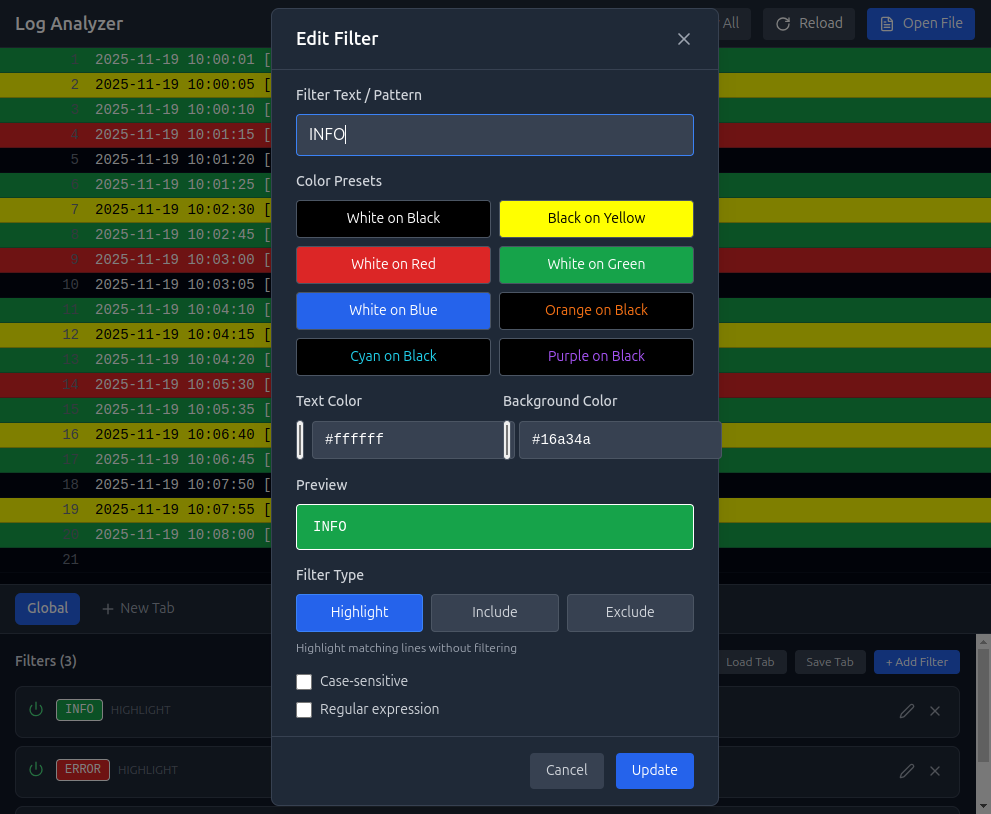
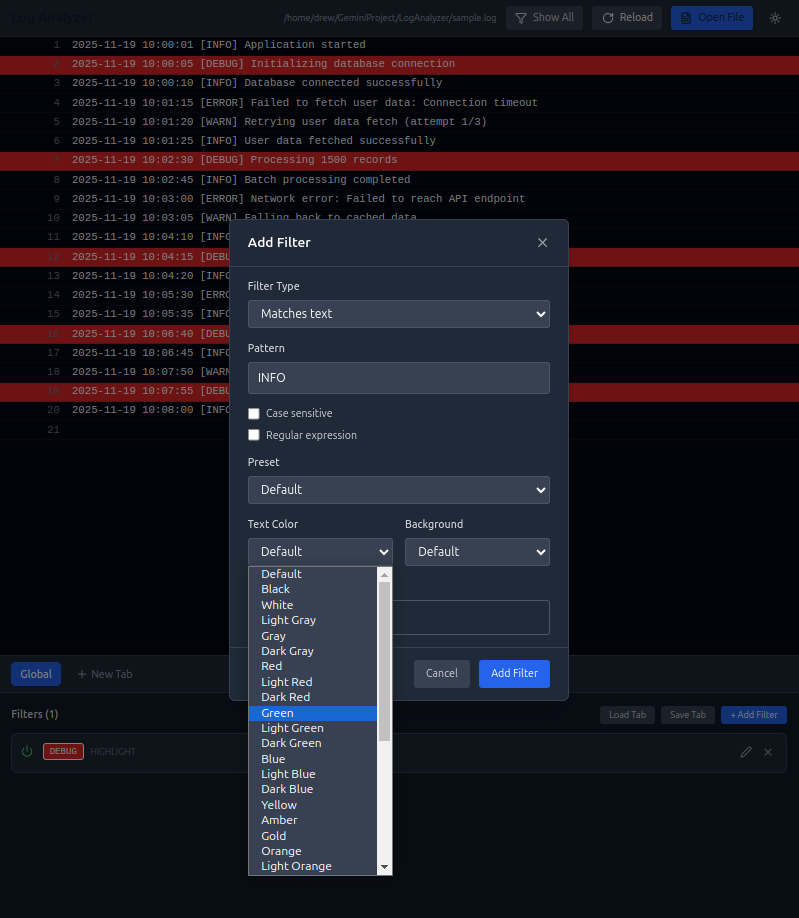
feat: Add filter type selection and new color options to the filter modal, and update associated images.

diff --git a/src/components/FilterModal.tsx b/src/components/FilterModal.tsx
@@ -1,7 +1,6 @@
 import { useState, useEffect } from 'react';
 import { X } from 'lucide-react';
 import { Filter, FilterType } from '../types';
-import { cn } from '../lib/utils';
 
 interface FilterModalProps {
     isOpen: boolean;
@@ -11,23 +10,69 @@ interface FilterModalProps {
 }
 
 const PRESET_COLORS = [
-    { text: '#ffffff', bg: '#000000', label: 'White on Black' },
-    { text: '#000000', bg: '#ffff00', label: 'Black on Yellow' },
-    { text: '#ffffff', bg: '#dc2626', label: 'White on Red' },
-    { text: '#ffffff', bg: '#16a34a', label: 'White on Green' },
-    { text: '#ffffff', bg: '#2563eb', label: 'White on Blue' },
-    { text: '#f97316', bg: '#000000', label: 'Orange on Black' },
-    { text: '#22d3ee', bg: '#000000', label: 'Cyan on Black' },
-    { text: '#a855f7', bg: '#000000', label: 'Purple on Black' },
+    { value: 'default', text: '', bg: '', label: 'Default' },
+    { value: 'white-black', text: '#ffffff', bg: '#000000', label: 'White on Black' },
+    { value: 'black-yellow', text: '#000000', bg: '#ffff00', label: 'Black on Yellow' },
+    { value: 'white-red', text: '#ffffff', bg: '#dc2626', label: 'White on Red' },
+    { value: 'white-green', text: '#ffffff', bg: '#16a34a', label: 'White on Green' },
+    { value: 'white-blue', text: '#ffffff', bg: '#2563eb', label: 'White on Blue' },
+    { value: 'orange-black', text: '#f97316', bg: '#000000', label: 'Orange on Black' },
+    { value: 'cyan-black', text: '#22d3ee', bg: '#000000', label: 'Cyan on Black' },
+    { value: 'purple-black', text: '#a855f7', bg: '#000000', label: 'Purple on Black' },
+];
+
+const COLOR_OPTIONS = [
+    { value: '', label: 'Default' },
+    { value: '#000000', label: 'Black' },
+    { value: '#ffffff', label: 'White' },
+    { value: '#gray-300', label: 'Light Gray' },
+    { value: '#9ca3af', label: 'Gray' },
+    { value: '#4b5563', label: 'Dark Gray' },
+    { value: '#dc2626', label: 'Red' },
+    { value: '#ef4444', label: 'Light Red' },
+    { value: '#991b1b', label: 'Dark Red' },
+    { value: '#16a34a', label: 'Green' },
+    { value: '#22c55e', label: 'Light Green' },
+    { value: '#15803d', label: 'Dark Green' },
+    { value: '#2563eb', label: 'Blue' },
+    { value: '#3b82f6', label: 'Light Blue' },
+    { value: '#1e40af', label: 'Dark Blue' },
+    { value: '#ffff00', label: 'Yellow' },
+    { value: '#fbbf24', label: 'Amber' },
+    { value: '#f59e0b', label: 'Gold' },
+    { value: '#f97316', label: 'Orange' },
+    { value: '#fb923c', label: 'Light Orange' },
+    { value: '#ea580c', label: 'Dark Orange' },
+    { value: '#22d3ee', label: 'Cyan' },
+    { value: '#06b6d4', label: 'Teal' },
+    { value: '#0891b2', label: 'Dark Cyan' },
+    { value: '#a855f7', label: 'Purple' },
+    { value: '#c084fc', label: 'Light Purple' },
+    { value: '#7c3aed', label: 'Dark Purple' },
+    { value: '#ec4899', label: 'Pink' },
+    { value: '#f472b6', label: 'Light Pink' },
+    { value: '#be185d', label: 'Dark Pink' },
+    { value: '#8b5cf6', label: 'Violet' },
+    { value: '#06b6d4', label: 'Sky Blue' },
+    { value: '#10b981', label: 'Emerald' },
+    { value: '#84cc16', label: 'Lime' },
+    { value: '#eab308', label: 'Yellow Gold' },
+];
+
+const FILTER_TYPE_OPTIONS = [
+    { value: 'highlight', label: 'Matches text' },
+    { value: 'include', label: 'Includes text' },
+    { value: 'exclude', label: 'Excludes text' },
 ];
 
 export function FilterModal({ isOpen, onClose, onSave, initialFilter }: FilterModalProps) {
     const [filterText, setFilterText] = useState('');
-    const [textColor, setTextColor] = useState('#ffffff');
-    const [backgroundColor, setBackgroundColor] = useState('#000000');
+    const [textColor, setTextColor] = useState('');
+    const [backgroundColor, setBackgroundColor] = useState('');
     const [filterType, setFilterType] = useState<FilterType>('highlight');
     const [caseSensitive, setCaseSensitive] = useState(false);
     const [isRegex, setIsRegex] = useState(false);
+    const [preset, setPreset] = useState('default');
 
     useEffect(() => {
         if (initialFilter) {
@@ -37,16 +82,27 @@ export function FilterModal({ isOpen, onClose, onSave, initialFilter }: FilterMo
             setFilterType(initialFilter.type);
             setCaseSensitive(initialFilter.caseSensitive);
             setIsRegex(initialFilter.isRegex);
+            setPreset('default');
         } else {
             // Reset form
             setFilterText('');
-            setTextColor('#ffffff');
-            setBackgroundColor('#000000');
+            setTextColor('');
+            setBackgroundColor('');
             setFilterType('highlight');
             setCaseSensitive(false);
             setIsRegex(false);
+            setPreset('default');
         }
     }, [initialFilter, isOpen]);
+
+    const handlePresetChange = (value: string) => {
+        setPreset(value);
+        const selectedPreset = PRESET_COLORS.find(p => p.value === value);
+        if (selectedPreset) {
+            setTextColor(selectedPreset.text);
+            setBackgroundColor(selectedPreset.bg);
+        }
+    };
 
     const handleSave = () => {
         if (!filterText.trim()) return;
@@ -84,132 +140,37 @@ export function FilterModal({ isOpen, onClose, onSave, initialFilter }: FilterMo
 
                 {/* Body */}
                 <div className="px-6 py-4 space-y-4">
-                    {/* Filter Text */}
-                    <div>
-                        <label className="block text-sm font-medium text-gray-700 dark:text-gray-300 mb-2">
-                            Filter Text / Pattern
-                        </label>
-                        <input
-                            type="text"
-                            value={filterText}
-                            onChange={(e) => setFilterText(e.target.value)}
-                            placeholder="Enter text or regex pattern..."
-                            className="w-full px-3 py-2 bg-white dark:bg-gray-700 text-gray-900 dark:text-white rounded border border-gray-300 dark:border-gray-600 focus:outline-none focus:border-blue-500"
-                            autoFocus
-                        />
-                    </div>
-
-                    {/* Color Presets */}
-                    <div>
-                        <label className="block text-sm font-medium text-gray-700 dark:text-gray-300 mb-2">
-                            Color Presets
-                        </label>
-                        <div className="grid grid-cols-2 gap-2">
-                            {PRESET_COLORS.map((preset, index) => (
-                                <button
-                                    key={index}
-                                    onClick={() => {
-                                        setTextColor(preset.text);
-                                        setBackgroundColor(preset.bg);
-                                    }}
-                                    className="px-3 py-2 rounded text-sm border border-gray-200 dark:border-gray-600 hover:border-gray-300 dark:hover:border-gray-500 transition-colors"
-                                    style={{
-                                        color: preset.text,
-                                        backgroundColor: preset.bg,
-                                    }}
-                                >
-                                    {preset.label}
-                                </button>
-                            ))}
-                        </div>
-                    </div>
-
-                    {/* Custom Colors */}
-                    <div className="grid grid-cols-2 gap-4">
-                        <div>
-                            <label className="block text-sm font-medium text-gray-700 dark:text-gray-300 mb-2">
-                                Text Color
-                            </label>
-                            <div className="flex items-center gap-2">
-                                <input
-                                    type="color"
-                                    value={textColor}
-                                    onChange={(e) => setTextColor(e.target.value)}
-                                    className="w-12 h-10 rounded border border-gray-300 dark:border-gray-600 cursor-pointer"
-                                />
-                                <input
-                                    type="text"
-                                    value={textColor}
-                                    onChange={(e) => setTextColor(e.target.value)}
-                                    className="flex-1 px-3 py-2 bg-white dark:bg-gray-700 text-gray-900 dark:text-white rounded border border-gray-300 dark:border-gray-600 focus:outline-none focus:border-blue-500 font-mono text-sm"
-                                />
-                            </div>
-                        </div>
-
-                        <div>
-                            <label className="block text-sm font-medium text-gray-700 dark:text-gray-300 mb-2">
-                                Background Color
-                            </label>
-                            <div className="flex items-center gap-2">
-                                <input
-                                    type="color"
-                                    value={backgroundColor}
-                                    onChange={(e) => setBackgroundColor(e.target.value)}
-                                    className="w-12 h-10 rounded border border-gray-300 dark:border-gray-600 cursor-pointer"
-                                />
-                                <input
-                                    type="text"
-                                    value={backgroundColor}
-                                    onChange={(e) => setBackgroundColor(e.target.value)}
-                                    className="flex-1 px-3 py-2 bg-white dark:bg-gray-700 text-gray-900 dark:text-white rounded border border-gray-300 dark:border-gray-600 focus:outline-none focus:border-blue-500 font-mono text-sm"
-                                />
-                            </div>
-                        </div>
-                    </div>
-
-                    {/* Preview */}
-                    <div>
-                        <label className="block text-sm font-medium text-gray-700 dark:text-gray-300 mb-2">
-                            Preview
-                        </label>
-                        <div
-                            className="px-4 py-3 rounded font-mono text-sm border"
-                            style={{
-                                color: textColor,
-                                backgroundColor: backgroundColor,
-                                borderColor: textColor,
-                            }}
-                        >
-                            {filterText || 'Preview text will appear here'}
-                        </div>
-                    </div>
-
                     {/* Filter Type */}
                     <div>
                         <label className="block text-sm font-medium text-gray-700 dark:text-gray-300 mb-2">
                             Filter Type
                         </label>
-                        <div className="grid grid-cols-3 gap-2">
-                            {(['highlight', 'include', 'exclude'] as FilterType[]).map((type) => (
-                                <button
-                                    key={type}
-                                    onClick={() => setFilterType(type)}
-                                    className={cn(
-                                        'px-3 py-2 rounded text-sm capitalize transition-colors border',
-                                        filterType === type
-                                            ? 'bg-blue-600 text-white border-blue-500'
-                                            : 'bg-gray-100 dark:bg-gray-700 text-gray-700 dark:text-gray-300 border-gray-200 dark:border-gray-600 hover:border-gray-300 dark:hover:border-gray-500'
-                                    )}
-                                >
-                                    {type}
-                                </button>
+                        <select
+                            value={filterType}
+                            onChange={(e) => setFilterType(e.target.value as FilterType)}
+                            className="w-full px-3 py-2 bg-white dark:bg-gray-700 text-gray-900 dark:text-white rounded border border-gray-300 dark:border-gray-600 focus:outline-none focus:border-blue-500"
+                        >
+                            {FILTER_TYPE_OPTIONS.map((option) => (
+                                <option key={option.value} value={option.value}>
+                                    {option.label}
+                                </option>
                             ))}
-                        </div>
-                        <p className="text-xs text-gray-500 dark:text-gray-400 mt-2">
-                            {filterType === 'highlight' && 'Highlight matching lines without filtering'}
-                            {filterType === 'include' && 'Show only lines that match this filter'}
-                            {filterType === 'exclude' && 'Hide lines that match this filter'}
-                        </p>
+                        </select>
+                    </div>
+
+                    {/* Pattern */}
+                    <div>
+                        <label className="block text-sm font-medium text-gray-700 dark:text-gray-300 mb-2">
+                            Pattern
+                        </label>
+                        <input
+                            type="text"
+                            value={filterText}
+                            onChange={(e) => setFilterText(e.target.value)}
+                            placeholder="Enter text or regex..."
+                            className="w-full px-3 py-2 bg-white dark:bg-gray-700 text-gray-900 dark:text-white rounded border border-gray-300 dark:border-gray-600 focus:outline-none focus:border-blue-500"
+                            autoFocus
+                        />
                     </div>
 
                     {/* Options */}
@@ -219,9 +180,9 @@ export function FilterModal({ isOpen, onClose, onSave, initialFilter }: FilterMo
                                 type="checkbox"
                                 checked={caseSensitive}
                                 onChange={(e) => setCaseSensitive(e.target.checked)}
-                                className="w-4 h-4 rounded bg-white dark:bg-gray-700 border-gray-300 dark:border-gray-600 text-blue-600 focus:ring-blue-500 focus:ring-offset-gray-100 dark:focus:ring-offset-gray-800"
+                                className="w-4 h-4 rounded bg-white dark:bg-gray-700 border-gray-300 dark:border-gray-600 text-blue-600 focus:ring-blue-500"
                             />
-                            <span className="text-sm text-gray-700 dark:text-gray-300">Case-sensitive</span>
+                            <span className="text-sm text-gray-700 dark:text-gray-300">Case sensitive</span>
                         </label>
 
                         <label className="flex items-center gap-2 cursor-pointer">
@@ -229,10 +190,87 @@ export function FilterModal({ isOpen, onClose, onSave, initialFilter }: FilterMo
                                 type="checkbox"
                                 checked={isRegex}
                                 onChange={(e) => setIsRegex(e.target.checked)}
-                                className="w-4 h-4 rounded bg-white dark:bg-gray-700 border-gray-300 dark:border-gray-600 text-blue-600 focus:ring-blue-500 focus:ring-offset-gray-100 dark:focus:ring-offset-gray-800"
+                                className="w-4 h-4 rounded bg-white dark:bg-gray-700 border-gray-300 dark:border-gray-600 text-blue-600 focus:ring-blue-500"
                             />
                             <span className="text-sm text-gray-700 dark:text-gray-300">Regular expression</span>
                         </label>
+                    </div>
+
+                    {/* Preset */}
+                    <div>
+                        <label className="block text-sm font-medium text-gray-700 dark:text-gray-300 mb-2">
+                            Preset
+                        </label>
+                        <select
+                            value={preset}
+                            onChange={(e) => handlePresetChange(e.target.value)}
+                            className="w-full px-3 py-2 bg-white dark:bg-gray-700 text-gray-900 dark:text-white rounded border border-gray-300 dark:border-gray-600 focus:outline-none focus:border-blue-500"
+                        >
+                            {PRESET_COLORS.map((presetOption) => (
+                                <option key={presetOption.value} value={presetOption.value}>
+                                    {presetOption.label}
+                                </option>
+                            ))}
+                        </select>
+                    </div>
+
+                    {/* Colors */}
+                    <div className="grid grid-cols-2 gap-4">
+                        <div>
+                            <label className="block text-sm font-medium text-gray-700 dark:text-gray-300 mb-2">
+                                Text Color
+                            </label>
+                            <select
+                                value={textColor}
+                                onChange={(e) => {
+                                    setTextColor(e.target.value);
+                                    setPreset('default');
+                                }}
+                                className="w-full px-3 py-2 bg-white dark:bg-gray-700 text-gray-900 dark:text-white rounded border border-gray-300 dark:border-gray-600 focus:outline-none focus:border-blue-500"
+                            >
+                                {COLOR_OPTIONS.map((option) => (
+                                    <option key={option.value} value={option.value}>
+                                        {option.label}
+                                    </option>
+                                ))}
+                            </select>
+                        </div>
+
+                        <div>
+                            <label className="block text-sm font-medium text-gray-700 dark:text-gray-300 mb-2">
+                                Background
+                            </label>
+                            <select
+                                value={backgroundColor}
+                                onChange={(e) => {
+                                    setBackgroundColor(e.target.value);
+                                    setPreset('default');
+                                }}
+                                className="w-full px-3 py-2 bg-white dark:bg-gray-700 text-gray-900 dark:text-white rounded border border-gray-300 dark:border-gray-600 focus:outline-none focus:border-blue-500"
+                            >
+                                {COLOR_OPTIONS.map((option) => (
+                                    <option key={option.value} value={option.value}>
+                                        {option.label}
+                                    </option>
+                                ))}
+                            </select>
+                        </div>
+                    </div>
+
+                    {/* Preview */}
+                    <div>
+                        <label className="block text-sm font-medium text-gray-700 dark:text-gray-300 mb-2">
+                            Preview
+                        </label>
+                        <div
+                            className="px-4 py-3 rounded font-mono text-sm border border-gray-300 dark:border-gray-600"
+                            style={{
+                                color: textColor || undefined,
+                                backgroundColor: backgroundColor || undefined,
+                            }}
+                        >
+                            {filterText || 'Sample Text'}
+                        </div>
                     </div>
                 </div>
 
